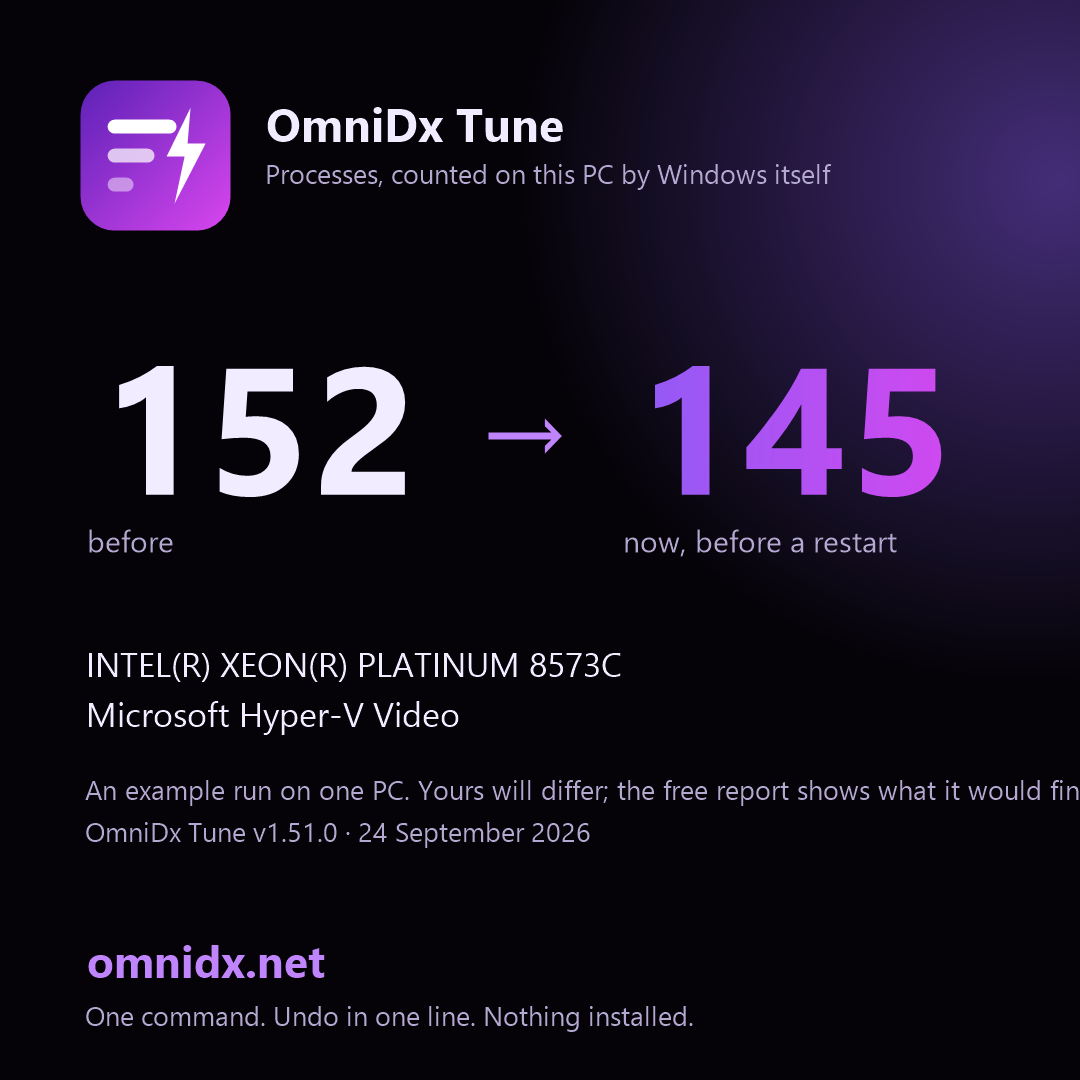
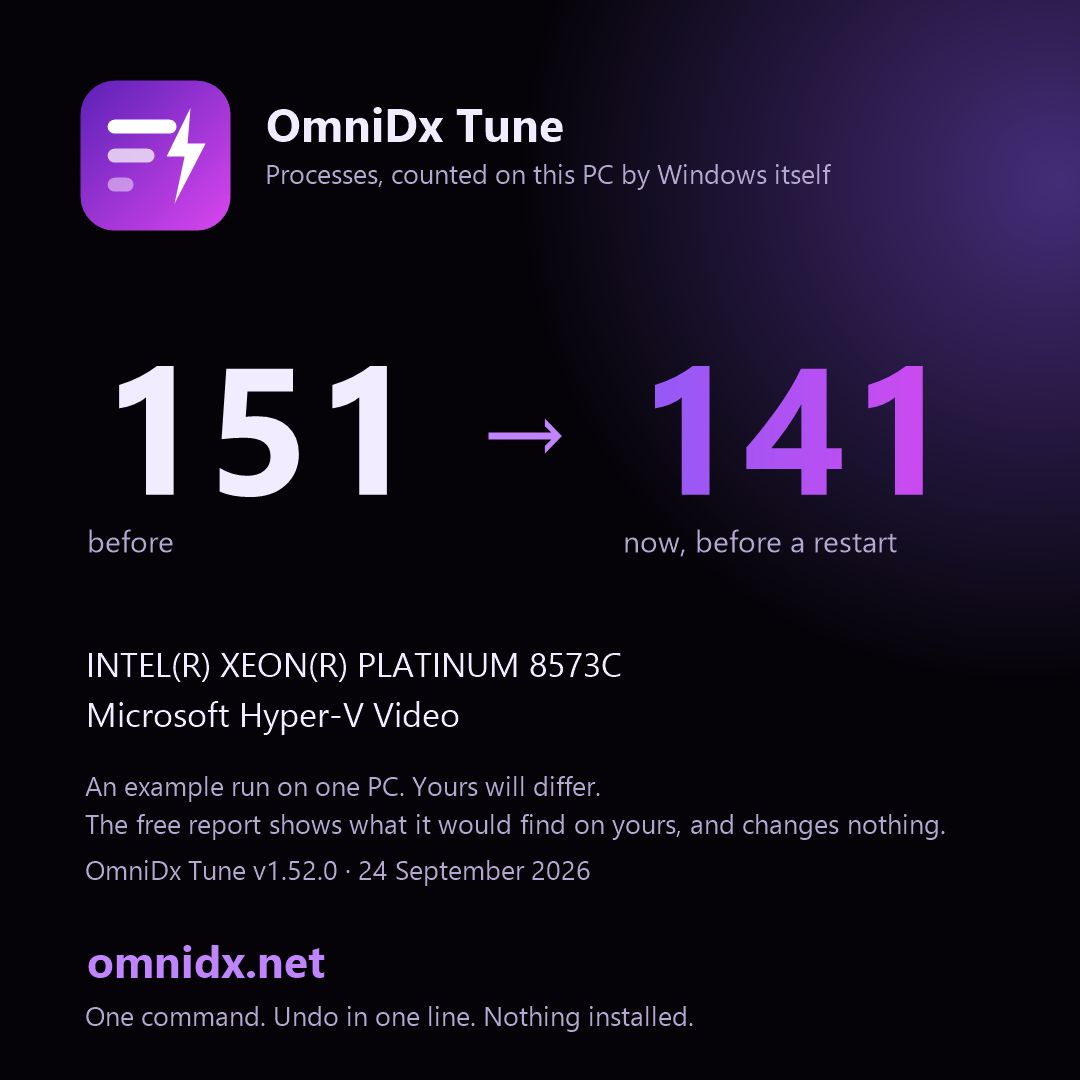
Windows check: the app window, the numbers, the log, and the script this run verified

diff --git a/studio/assets/ci-report.html b/studio/assets/ci-report.html
@@ -1,5 +1,5 @@
 <!doctype html><html lang="en"><head><meta charset="utf-8"><meta name="viewport" content="width=device-width,initial-scale=1">
-<title>OmniDx Tune report - 2026-09-24_06-16-28</title>
+<title>OmniDx Tune report - 2026-09-24_06-25-12</title>
 <style>
 body{margin:0;background:#050308;color:#f1ecff;font:15px/1.6 -apple-system,'Segoe UI',Roboto,system-ui,sans-serif}
 main{max-width:860px;margin:0 auto;padding:36px 20px 80px}
@@ -17,30 +17,29 @@ details{margin:10px 0;background:#0e0a17;border:1px solid #2a1f45;border-radius:
 details pre{font:12.5px/1.5 ui-monospace,Consolas,monospace;color:#b3a8cf;overflow:auto;max-height:420px;margin:10px 0 4px}
 .bios ul{list-style:none;padding-left:2px}.bios li{margin:8px 0;color:#f1ecff}.bios{background:#0e0a17;border:1px solid #2a1f45;border-radius:14px;padding:6px 18px}
 </style></head><body><main>
-<h1>OmniDx Tune <span class="muted" style="font-size:16px">v1.51.0</span></h1>
-<p class="sub">Thursday, September 24, 2026 6:17 AM &middot; INTEL(R) XEON(R) PLATINUM 8573C &middot; Microsoft Hyper-V Video &middot; 16 GB &middot; Microsoft Corporation Virtual Machine</p>
-<div class="big"><div><b>152</b><span>processes before</span></div><div><b>145</b><span>now, before a restart</span></div><div><b>~70</b><span>target for this PC after a restart</span></div></div>
+<h1>OmniDx Tune <span class="muted" style="font-size:16px">v1.52.0</span></h1>
+<p class="sub">Thursday, September 24, 2026 6:26 AM &middot; INTEL(R) XEON(R) PLATINUM 8573C &middot; Microsoft Hyper-V Video &middot; 16 GB &middot; Microsoft Corporation Virtual Machine</p>
+<div class="big"><div><b>151</b><span>processes before</span></div><div><b>141</b><span>now, before a restart</span></div><div><b>~70</b><span>target for this PC after a restart</span></div></div>
 <p class='muted'>The card, for posting (the same numbers, on one picture): <code>ci-card.png</code></p><img src='ci-card.png' alt='Before and after, on a card' style='max-width:340px;width:100%;border-radius:14px;border:1px solid #2a1f45'>
 <p class="muted">Many of the "now" processes are only waiting to be stopped. The number after a restart is the one that counts; <code>C:\OmniDx\after-restart.txt</code> gets it at your next sign-in. Kept cut: a task at each sign-in puts back what a Windows update turns on; undo removes it.</p>
 <h2>Next steps</h2><ol><li>Restart. The services told to stop are still unwinding until you do, and the after-restart count lands in C:\OmniDx\after-restart.txt at your next sign-in, with the boot time of that start next to the one from before the tune.</li><li>BIOS: items 1 to 3 (memory profile, Re-Size BAR, CSM). Ten minutes, and the memory profile alone is the biggest free gain any PC has.</li><li>GPU control panel: low latency mode, power management and V-Sync, from the list below. Two minutes.</li><li>Launchers and overlays: the list below names the one or two settings in each that matter; the overlays are the usual cause of a stutter that &quot;came from nowhere&quot;.</li><li>Any time: $env:OMNIDX_MODE=&#39;status&#39;; irm omnidx.net/go.ps1 | iex shows what is still in place; undo is one line, and it is in this report.</li></ol>
-<h2>Before and after</h2><table><tr><th></th><th>Before</th><th>Now</th></tr><tr><td>Processes</td><td>152</td><td>145</td></tr><tr><td>Threads</td><td>1566</td><td>1555</td></tr><tr><td>Handles</td><td>51922</td><td>50619</td></tr><tr><td>Memory in use</td><td>2948 MB</td><td>3143 MB</td></tr><tr><td>Idle CPU</td><td>0.8%</td><td>3.3%</td></tr><tr><td>DPC time</td><td>0%</td><td>0%</td></tr></table>
+<h2>Before and after</h2><table><tr><th></th><th>Before</th><th>Now</th></tr><tr><td>Processes</td><td>151</td><td>141</td></tr><tr><td>Threads</td><td>1558</td><td>1470</td></tr><tr><td>Handles</td><td>52033</td><td>48513</td></tr><tr><td>Memory in use</td><td>2951 MB</td><td>3055 MB</td></tr><tr><td>Idle CPU</td><td>0.7%</td><td>0.3%</td></tr><tr><td>DPC time</td><td>0%</td><td>0%</td></tr></table>
 <h2>Gone, by name</h2><p class='muted'>Running before, not running now: spoolsv</p>
-<details><summary>Every process, before (58 names)</summary><pre>svchost                                  x82     1,262 MB
+<details><summary>Every process, before (58 names)</summary><pre>svchost                                  x83     1,304 MB
 conhost                                  x4         34 MB
-taskhostw                                x3         56 MB
-WmiPrvSE                                 x3         62 MB
-backgroundTaskHost                       x2         43 MB
+taskhostw                                x3         59 MB
+WmiPrvSE                                 x3         63 MB
 csrss                                    x2         14 MB
 fontdrvhost                              x2         11 MB
 notepad                                  x2         59 MB
-RuntimeBroker                            x2         67 MB
 SMSvcHost                                x2         50 MB
 AzureArcSysTray                          x1         19 MB
+backgroundTaskHost                       x1         32 MB
 ctfmon                                   x1         26 MB
 dockerd                                  x1         46 MB
 dwm                                      x1         76 MB
 explorer                                 x1        161 MB
-hosted-compute-agent                     x1         21 MB
+hosted-compute-agent                     x1         22 MB
 Idle                                     x1          0 MB
 LsaIso                                   x1          4 MB
 lsass                                    x1         31 MB
@@ -48,16 +47,17 @@ MpDefenderCoreService                    x1         30 MB
 mqsvc                                    x1         19 MB
 msdtc                                    x1         14 MB
 MsMpEng                                  x1        201 MB
-node                                     x1         42 MB
+node                                     x1         43 MB
 OpenConsole                              x1         14 MB
 powershell                               x1        261 MB
-provjobd.exe3516026554                   x1         36 MB
-Registry                                 x1         43 MB
-Runner.Listener                          x1         70 MB
-Runner.Worker                            x1        145 MB
-SearchHost                               x1        109 MB
+provjobd.exe3937736538                   x1         36 MB
+Registry                                 x1         44 MB
+Runner.Listener                          x1         71 MB
+Runner.Worker                            x1        146 MB
+RuntimeBroker                            x1         47 MB
+SearchHost                               x1        108 MB
 Secure System                            x1         52 MB
-SecurityHealthService                    x1         12 MB
+SecurityHealthService                    x1         11 MB
 ServiceFabricLocalClusterManager         x1         36 MB
 services                                 x1         11 MB
 ShellHost                                x1         42 MB
@@ -70,51 +70,50 @@ sshd                                     x1          9 MB
 StartMenuExperienceHost                  x1        130 MB
 System                                   x1          0 MB
 SystemPropertiesPerformance              x1         14 MB
-TiWorker                                 x1         27 MB
+TiWorker                                 x1         28 MB
 TrustedInstaller                         x1         10 MB
 UserOOBEBroker                           x1         11 MB
 vmcompute                                x1         10 MB
-vmms                                     x1         34 MB
-WaAppAgent                               x1         86 MB
+vmms                                     x1         33 MB
+WaAppAgent                               x1         84 MB
 WaSecAgentProv                           x1          5 MB
 WindowsAzureGuestAgent                   x1         70 MB
 WindowsTerminal                          x1         85 MB
 wininit                                  x1          9 MB
 winlogon                                 x1         13 MB
 wslservice                               x1         28 MB
-WUDFHost                                 x1         12 MB</pre></details><details><summary>Every process, after (61 names)</summary><pre>svchost                                  x73     1,116 MB
+WUDFHost                                 x1         12 MB</pre></details><details><summary>Every process, after (59 names)</summary><pre>svchost                                  x72     1,089 MB
 conhost                                  x4         34 MB
-taskhostw                                x3         83 MB
-WmiPrvSE                                 x3         81 MB
+taskhostw                                x3         56 MB
+WmiPrvSE                                 x3         68 MB
 csrss                                    x2         14 MB
 fontdrvhost                              x2         11 MB
 notepad                                  x2         59 MB
-RuntimeBroker                            x2         68 MB
 SMSvcHost                                x2         50 MB
 AzureArcSysTray                          x1         19 MB
-backgroundTaskHost                       x1         15 MB
-ctfmon                                   x1         26 MB
+backgroundTaskHost                       x1         21 MB
+ctfmon                                   x1         25 MB
 dllhost                                  x1         13 MB
 dockerd                                  x1         46 MB
 dwm                                      x1         76 MB
-explorer                                 x1        161 MB
-hosted-compute-agent                     x1         20 MB
+explorer                                 x1        162 MB
+hosted-compute-agent                     x1         21 MB
 Idle                                     x1          0 MB
 LsaIso                                   x1          4 MB
 lsass                                    x1         31 MB
-MoUsoCoreWorker                          x1         23 MB
 MpDefenderCoreService                    x1         30 MB
 mqsvc                                    x1         19 MB
 msdtc                                    x1         14 MB
-MsMpEng                                  x1        196 MB
+MsMpEng                                  x1        176 MB
 node                                     x1         41 MB
 OpenConsole                              x1         14 MB
 powershell                               x1        301 MB
-provjobd.exe3516026554                   x1         35 MB
-Registry                                 x1         90 MB
-Runner.Listener                          x1         72 MB
-Runner.Worker                            x1        146 MB
-SearchHost                               x1        109 MB
+provjobd.exe3937736538                   x1         35 MB
+Registry                                 x1         74 MB
+Runner.Listener                          x1         71 MB
+Runner.Worker                            x1        147 MB
+RuntimeBroker                            x1         47 MB
+SearchHost                               x1        108 MB
 Secure System                            x1         52 MB
 SecurityHealthService                    x1         12 MB
 ServiceFabricLocalClusterManager         x1         36 MB
@@ -123,25 +122,24 @@ ShellHost                                x1         42 MB
 sihost                                   x1         42 MB
 smartscreen                              x1         12 MB
 smss                                     x1          2 MB
-sppsvc                                   x1         17 MB
 sqlwriter                                x1         11 MB
 sshd                                     x1          9 MB
 StartMenuExperienceHost                  x1        131 MB
 System                                   x1          0 MB
 SystemPropertiesPerformance              x1         14 MB
-TiWorker                                 x1         49 MB
+TiWorker                                 x1         38 MB
 TrustedInstaller                         x1         10 MB
 UserOOBEBroker                           x1         11 MB
 vmcompute                                x1         10 MB
-vmms                                     x1         34 MB
-WaAppAgent                               x1         86 MB
+vmms                                     x1         33 MB
+WaAppAgent                               x1         84 MB
 WaSecAgentProv                           x1          5 MB
 WindowsAzureGuestAgent                   x1         70 MB
 WindowsTerminal                          x1         85 MB
 wininit                                  x1          8 MB
 winlogon                                 x1         13 MB
 WMIADAP                                  x1         11 MB
-wslservice                               x1         28 MB
+wslservice                               x1         29 MB
 WUDFHost                                 x1         12 MB</pre></details>
 <h2>Kept, and why</h2><ul><li>Defender, the firewall, Windows Update, audio, networking: always</li><li>Themes: Windows 10 falls back to the classic look without it</li><li>vmicguestinterface: this is a virtual machine</li><li>vmicheartbeat: this is a virtual machine</li><li>vmickvpexchange: this is a virtual machine</li><li>vmicrdv: this is a virtual machine</li><li>vmicshutdown: this is a virtual machine</li><li>vmictimesync: this is a virtual machine</li><li>vmicvmsession: this is a virtual machine</li><li>vmicvss: this is a virtual machine</li></ul>
 <h2>Warnings (3)</h2><div class="warn"><ul><li>The GPU driver dates from Jun 2006. A current driver is worth more than most tweaks.</li><li>This looks like a virtual machine. The tune will run, but the numbers mean little here.</li><li>Could not make a restore point (This functionality is not supported on this operating system.). The undo script still records everything.</li></ul></div>
@@ -150,8 +148,8 @@ WUDFHost                                 x1         12 MB</pre></details>
 <h2>Launchers, overlays and helper apps</h2><ul><li>None of the usual launchers, overlays or peripheral suites found. The same notes apply the day you install one; run the command again and they appear here.</li></ul>
 <h2>Left by other tools</h2><p class="muted">The tune changes none of these; it names them, with the way back.</p><ul><li>Nothing found: no other tool has left Defender, Windows Update, SmartScreen, User Account Control or the CPU mitigations switched off on this PC.</li></ul>
 <h2>Per game</h2><p class='muted'>Not found on this PC (the same profile applies if you install them): Fortnite, VALORANT, Counter-Strike 2, Marvel Rivals, Apex Legends, Call of Duty (Warzone / MW), Overwatch 2, Rainbow Six Siege, Rocket League, Minecraft, Roblox, League of Legends, GTA V / Online, Rust, Escape from Tarkov, PUBG, The Finals, Dota 2, Battlefield 6, Deadlock, Delta Force, ARC Raiders, Helldivers 2, Warframe, Destiny 2, Halo Infinite, Dead by Daylight, Hunt: Showdown 1896, War Thunder, World of Warcraft, Squad, Battlefield 2042, EA Sports FC 26, NBA 2K26, Palworld, Path of Exile 2, Diablo IV, Monster Hunter Wilds, Elden Ring / Nightreign, Cyberpunk 2077, Baldur&#39;s Gate 3, Star Citizen, DayZ, Arma Reforger, Hell Let Loose, Genshin Impact, Ready or Not, Final Fantasy XIV, STALKER 2, Sea of Thieves</p>
-<h2>What was done</h2><h4>Safety first</h4><div class='did'>Registry and service list backed up to C:\OmniDx\backup\2026-09-24_06-16-28</div><div class='did'>undo.ps1 written to C:\OmniDx\undo</div><h4>Startup apps</h4><div class='did'>off: AzureArcSetup</div><div class='did'>off: Service Fabric Local Cluster Manager (Startup folder)</div><h4>Services</h4><div class='did'>dmwappushservice -&gt; disabled  (telemetry push)</div><div class='did'>WerSvc -&gt; disabled  (error reporting)</div><div class='did'>wercplsupport -&gt; disabled  (error reporting)</div><div class='did'>PcaSvc -&gt; disabled  (compatibility assistant)</div><div class='did'>lfsvc -&gt; disabled  (geolocation)</div><div class='did'>RemoteRegistry -&gt; disabled  (remote registry)</div><div class='did'>WMPNetworkSvc -&gt; disabled  (media sharing)</div><div class='did'>TrkWks -&gt; disabled  (link tracking)</div><div class='did'>WalletService -&gt; disabled  (wallet)</div><div class='did'>wisvc -&gt; disabled  (insider program)</div><div class='did'>SEMgrSvc -&gt; disabled  (payments and NFC)</div><div class='did'>TapiSrv -&gt; disabled  (telephony)</div><div class='did'>SharedAccess -&gt; disabled  (internet connection sharing)</div><div class='did'>edgeupdate -&gt; manual  (Edge updater (runs on demand))</div><div class='did'>WbioSrvc -&gt; disabled  (biometrics)</div><div class='did'>SysMain already disabled; left that way</div><div class='did'>WSearch already disabled; left that way</div><div class='did'>Spooler -&gt; disabled  (print spooler)</div><div class='did'>bthserv -&gt; disabled  (bluetooth)</div><div class='did'>WlanSvc -&gt; disabled  (wi-fi)</div><div class='did'>CDPSvc -&gt; manual  (connected devices)</div><div class='did'>CDPUserSvc already disabled; left that way</div><div class='did'>OneSyncSvc already disabled; left that way</div><div class='did'>PimIndexMaintenanceSvc already disabled; left that way</div><div class='did'>UnistoreSvc already disabled; left that way</div><div class='did'>UserDataSvc already disabled; left that way</div><div class='did'>SSDPSRV already disabled; left that way</div><div class='did'>upnphost already disabled; left that way</div><div class='did'>DPS -&gt; manual  (diagnostic policy)</div><div class='did'>SCardSvr -&gt; disabled  (smart card)</div><div class='did'>ScDeviceEnum -&gt; disabled  (smart card)</div><div class='did'>CertPropSvc -&gt; disabled  (smart card)</div><div class='did'>iphlpsvc -&gt; manual  (ipv6 tunnels)</div><div class='did'>cbdhsvc -&gt; manual  (clipboard history)</div><div class='did'>WpnService -&gt; manual  (push notifications)</div><div class='did'>WpnUserService -&gt; manual  (push notifications)</div><div class='did'>SNMPTRAP -&gt; disabled  (SNMP traps)</div><div class='did'>workfolderssvc -&gt; disabled  (Work Folders sync)</div><h4>Scheduled tasks</h4><div class='did'>PcaPatchDbTask</div><div class='did'>CreateObjectTask</div><div class='did'>Device</div><div class='did'>Device User</div><div class='did'>LoginCheck</div><div class='did'>WindowsActionDialog</div><div class='did'>OobeDiscovery</div><div class='did'>Diagnostics</div><div class='did'>UsageDataFlushing</div><div class='did'>UsageDataReporting</div><div class='did'>Registration</div><div class='did'>IndexerAutomaticMaintenance</div><div class='did'>Storage Tiers Management Initialization</div><div class='did'>UPnPHostConfig</div><div class='did'>ResolutionHost</div><div class='did'>UpdateLibrary</div><div class='did'>Work Folders Logon Synchronization</div><div class='did'>Work Folders Maintenance Work</div><h4>Preinstalled apps</h4><div class='did'>Microsoft.WindowsFeedbackHub</div><h4>Debloat</h4><div class='did'>removed Steps Recorder (screenshots every click, retired by Microsoft)</div><div class='did'>removed the 2009 Windows Media Player (the Store one stays)</div><div class='did'>removed Math Input Panel</div><div class='did'>removed Internet Explorer 11</div><div class='did'>off: Work Folders (corporate sync)</div><div class='did'>Edge: shopping assistant, recommendations, Spotlight, feedback prompts and reporting off</div><div class='did'>Kept gone: consumer features, suggested apps, account nags and the &#39;finish setting up&#39; screen are off by policy</div><h4>Telemetry, background activity, the shell</h4><div class='did'>Telemetry, the advertising id, activity history, suggestions, Bing in Start, Recall and Edge&#39;s reporting off; background apps off; widgets, news, Copilot and Cortana off; Game DVR off, Game Mode on; the classic right-click menu on 11</div><h4>System tuning</h4><div class='did'>NTFS last-access stamps off</div><div class='did'>NTFS allowed more memory for its cache</div><div class='did'>Defender&#39;s scheduled scans already capped at 5% of the CPU, lower than the tune&#39;s 25%: left as it is</div><h4>The OmniDx power plan</h4><div class='did'>2 plan setting(s) this PC does not have were skipped.</div><div class='did'>OmniDx plan created and active: CPU 100/100, boost aggressive, energy preference on performance, no core parking, no throttle states on a desktop, PCIe, USB and Wi-Fi power saving off, no sleep on mains.</div><h4>Network</h4><div class='did'>TCP: autotuning normal, ECN and timestamps off, receive-side scaling on, segment coalescing off, CTCP.</div><div class='did'>Ethernet 3: Nagle off, power saving off</div><div class='did'>Ethernet 4: Nagle off, power saving off</div><h4>Discord, Spotify, browsers</h4><div class='did'>Chrome: no background mode, hardware acceleration on</div><div class='did'>Edge: no startup boost, no background mode, hardware acceleration on</div><h4>Game profiles</h4><div class='did'>No listed game found on the usual drives; the CPU-priority profiles are in place for when one is installed.</div><h4>Cleanup</h4><div class='did'>Temp files, the Windows Update download cache and the peer-to-peer update cache cleared: about 374 MB back.</div><h4>Keeping it cut</h4><div class='did'>Task &#39;OmniDx keep&#39; runs three minutes after sign-in, puts back whatever an update turned on, and notes that start&#39;s boot time. Log: C:\OmniDx\keep-log.txt. Undo removes it.</div>
-<h2>Undo</h2><p>Administrator PowerShell: <code>powershell -ExecutionPolicy Bypass -File C:\OmniDx\undo\undo.ps1</code><br>No restore point was made on this run (see the warnings); the undo script is the way back.<br>Changes recorded in <code>C:\OmniDx\undo\changes-2026-09-24_06-16-28.json</code>.</p>
+<h2>What was done</h2><h4>Safety first</h4><div class='did'>Registry and service list backed up to C:\OmniDx\backup\2026-09-24_06-25-12</div><div class='did'>undo.ps1 written to C:\OmniDx\undo</div><h4>Startup apps</h4><div class='did'>off: AzureArcSetup</div><div class='did'>off: Service Fabric Local Cluster Manager (Startup folder)</div><h4>Services</h4><div class='did'>dmwappushservice -&gt; disabled  (telemetry push)</div><div class='did'>WerSvc -&gt; disabled  (error reporting)</div><div class='did'>wercplsupport -&gt; disabled  (error reporting)</div><div class='did'>PcaSvc -&gt; disabled  (compatibility assistant)</div><div class='did'>lfsvc -&gt; disabled  (geolocation)</div><div class='did'>RemoteRegistry -&gt; disabled  (remote registry)</div><div class='did'>WMPNetworkSvc -&gt; disabled  (media sharing)</div><div class='did'>TrkWks -&gt; disabled  (link tracking)</div><div class='did'>WalletService -&gt; disabled  (wallet)</div><div class='did'>wisvc -&gt; disabled  (insider program)</div><div class='did'>SEMgrSvc -&gt; disabled  (payments and NFC)</div><div class='did'>TapiSrv -&gt; disabled  (telephony)</div><div class='did'>SharedAccess -&gt; disabled  (internet connection sharing)</div><div class='did'>edgeupdate -&gt; manual  (Edge updater (runs on demand))</div><div class='did'>WbioSrvc -&gt; disabled  (biometrics)</div><div class='did'>SysMain already disabled; left that way</div><div class='did'>WSearch already disabled; left that way</div><div class='did'>Spooler -&gt; disabled  (print spooler)</div><div class='did'>bthserv -&gt; disabled  (bluetooth)</div><div class='did'>WlanSvc -&gt; disabled  (wi-fi)</div><div class='did'>CDPSvc -&gt; manual  (connected devices)</div><div class='did'>CDPUserSvc already disabled; left that way</div><div class='did'>OneSyncSvc already disabled; left that way</div><div class='did'>PimIndexMaintenanceSvc already disabled; left that way</div><div class='did'>UnistoreSvc already disabled; left that way</div><div class='did'>UserDataSvc already disabled; left that way</div><div class='did'>SSDPSRV already disabled; left that way</div><div class='did'>upnphost already disabled; left that way</div><div class='did'>DPS -&gt; manual  (diagnostic policy)</div><div class='did'>SCardSvr -&gt; disabled  (smart card)</div><div class='did'>ScDeviceEnum -&gt; disabled  (smart card)</div><div class='did'>CertPropSvc -&gt; disabled  (smart card)</div><div class='did'>iphlpsvc -&gt; manual  (ipv6 tunnels)</div><div class='did'>cbdhsvc -&gt; manual  (clipboard history)</div><div class='did'>WpnService -&gt; manual  (push notifications)</div><div class='did'>WpnUserService -&gt; manual  (push notifications)</div><div class='did'>SNMPTRAP -&gt; disabled  (SNMP traps)</div><div class='did'>workfolderssvc -&gt; disabled  (Work Folders sync)</div><h4>Scheduled tasks</h4><div class='did'>PcaPatchDbTask</div><div class='did'>CreateObjectTask</div><div class='did'>Device</div><div class='did'>Device User</div><div class='did'>LoginCheck</div><div class='did'>WindowsActionDialog</div><div class='did'>OobeDiscovery</div><div class='did'>Diagnostics</div><div class='did'>UsageDataFlushing</div><div class='did'>UsageDataReporting</div><div class='did'>Registration</div><div class='did'>IndexerAutomaticMaintenance</div><div class='did'>Storage Tiers Management Initialization</div><div class='did'>UPnPHostConfig</div><div class='did'>ResolutionHost</div><div class='did'>UpdateLibrary</div><div class='did'>Work Folders Logon Synchronization</div><div class='did'>Work Folders Maintenance Work</div><h4>Preinstalled apps</h4><div class='did'>Microsoft.WindowsFeedbackHub</div><h4>Debloat</h4><div class='did'>removed Steps Recorder (screenshots every click, retired by Microsoft)</div><div class='did'>removed the 2009 Windows Media Player (the Store one stays)</div><div class='did'>removed Math Input Panel</div><div class='did'>removed Internet Explorer 11</div><div class='did'>off: Work Folders (corporate sync)</div><div class='did'>Edge: shopping assistant, recommendations, Spotlight, feedback prompts and reporting off</div><div class='did'>Kept gone: consumer features, suggested apps, account nags and the &#39;finish setting up&#39; screen are off by policy</div><h4>Telemetry, background activity, the shell</h4><div class='did'>Telemetry, the advertising id, activity history, suggestions, Bing in Start, Recall and Edge&#39;s reporting off; background apps off; widgets, news, Copilot and Cortana off; Game DVR off, Game Mode on; the classic right-click menu on 11</div><h4>System tuning</h4><div class='did'>NTFS last-access stamps off</div><div class='did'>NTFS allowed more memory for its cache</div><div class='did'>Defender&#39;s scheduled scans already capped at 5% of the CPU, lower than the tune&#39;s 25%: left as it is</div><h4>The OmniDx power plan</h4><div class='did'>2 plan setting(s) this PC does not have were skipped.</div><div class='did'>OmniDx plan created and active: CPU 100/100, boost aggressive, energy preference on performance, no core parking, no throttle states on a desktop, PCIe, USB and Wi-Fi power saving off, no sleep on mains.</div><h4>Network</h4><div class='did'>TCP: autotuning normal, ECN and timestamps off, receive-side scaling on, segment coalescing off, CTCP.</div><div class='did'>Ethernet 4: Nagle off, power saving off</div><div class='did'>Ethernet 3: Nagle off, power saving off</div><h4>Discord, Spotify, browsers</h4><div class='did'>Chrome: no background mode, hardware acceleration on</div><div class='did'>Edge: no startup boost, no background mode, hardware acceleration on</div><h4>Game profiles</h4><div class='did'>No listed game found on the usual drives; the CPU-priority profiles are in place for when one is installed.</div><h4>Cleanup</h4><div class='did'>Temp files, the Windows Update download cache and the peer-to-peer update cache cleared: about 374 MB back.</div><h4>Keeping it cut</h4><div class='did'>Task &#39;OmniDx keep&#39; runs three minutes after sign-in, puts back whatever an update turned on, and notes that start&#39;s boot time. Log: C:\OmniDx\keep-log.txt. Undo removes it.</div>
+<h2>Undo</h2><p>Administrator PowerShell: <code>powershell -ExecutionPolicy Bypass -File C:\OmniDx\undo\undo.ps1</code><br>No restore point was made on this run (see the warnings); the undo script is the way back.<br>Changes recorded in <code>C:\OmniDx\undo\changes-2026-09-24_06-25-12.json</code>.</p>
 <h2>Status, any time</h2><p>What is still in place, what an update put back, the keep task and the after-restart count: <code>$env:OMNIDX_MODE='status'; irm omnidx.net/go.ps1 | iex</code><br><span class="muted">README.txt in C:\OmniDx says what each file there is.</span></p>
 <p class="muted" style="margin-top:40px">omnidx.net &middot; one payment, one PC, undo in one line.</p>
 </main></body></html>
